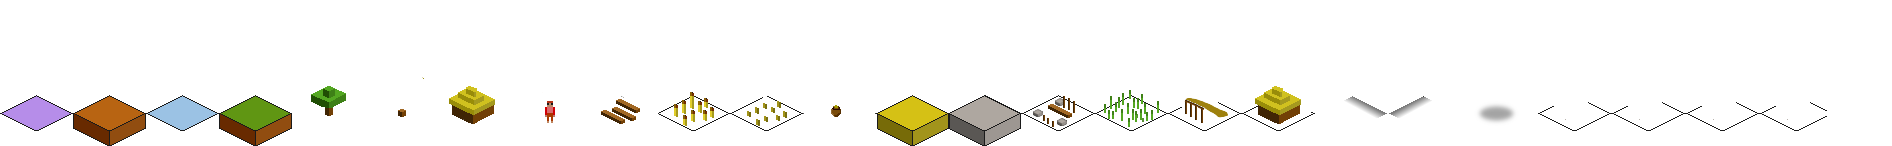
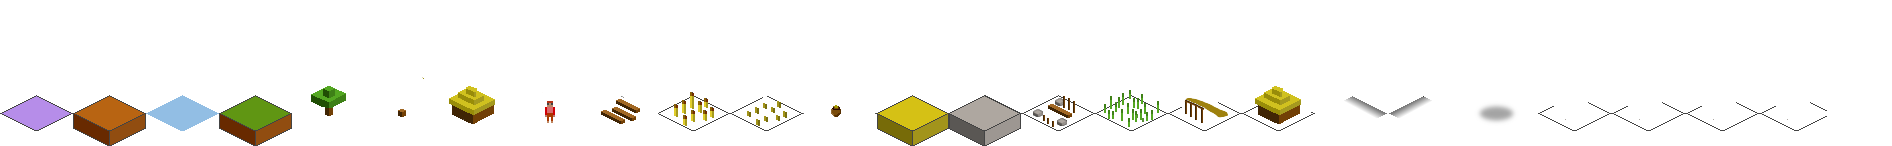
Improved water

Changed region(s): [[0.4989, 0.8493, 0.5301, 0.9041], [0.5301, 0.7945, 0.5613, 0.8219], [0.5301, 0.7397, 0.5613, 0.7671]]

diff --git a/js/render.js b/js/render.js
@@ -110,7 +110,7 @@
               this.draw_tile(this.map_context, 20, ix, iy, height, light);
             }
             if (height < this.world.water_level) {
-              this.draw_tile(this.map_context, 2, ix, iy, this.world.water_level, light);
+              this.draw_tile(this.map_context, 2, ix, iy, this.world.water_level, height);
             }
             this.map_context.fillStyle = '#ccc';
             task = this.world.task[ox][oy];

diff --git a/tiled.html b/tiled.html
@@ -1,7 +1,7 @@
 <!DOCTYPE html>
 <html>
     <head>
-        <title>Puddle Beta</title>
+        <title>Tiled</title>
 
         <link rel="shortcut icon" href="{{ STATIC_URL }}/img/favicon.png">
 
